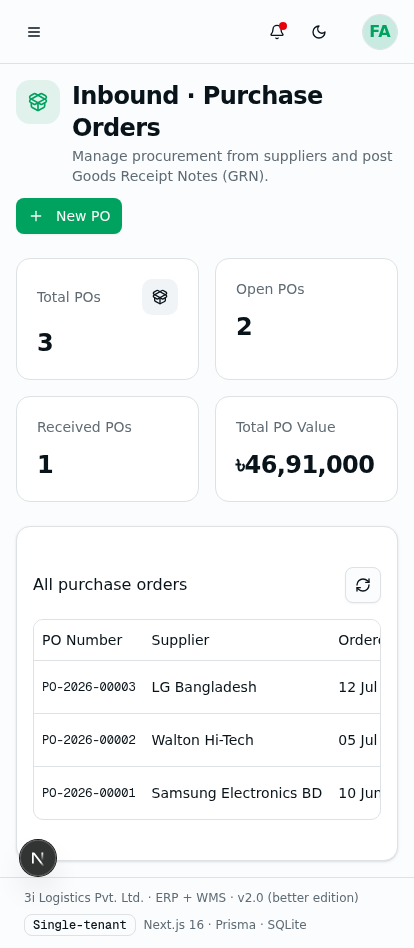
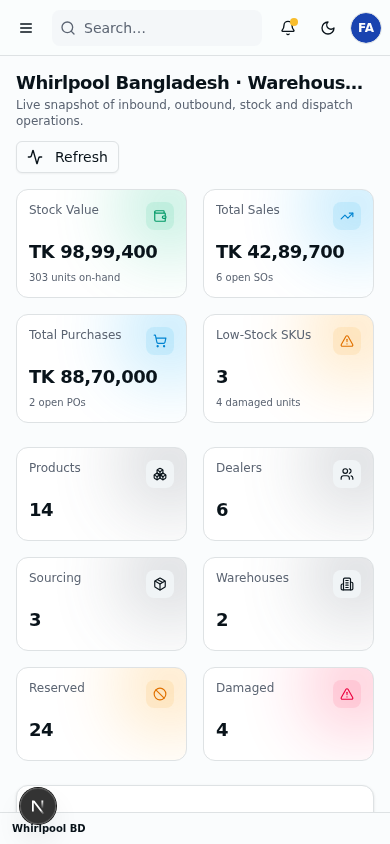
f7ca4c1f-90cb-48ee-82b6-1ebce1e157bb

diff --git a/public/sw.js b/public/sw.js
@@ -1,0 +1,63 @@
+// ═══════════════════════════════════════════════════════════════
+//  Service Worker — PWA offline support
+//  Caches the app shell for offline access.
+// ═══════════════════════════════════════════════════════════════
+
+const CACHE_NAME = 'whp-wms-v1'
+const APP_SHELL = [
+  '/',
+  '/manifest.json',
+  '/icon-192.png',
+  '/icon-512.png',
+]
+
+// Install — cache app shell
+self.addEventListener('install', (event) => {
+  event.waitUntil(
+    caches.open(CACHE_NAME).then((cache) => cache.addAll(APP_SHELL))
+  )
+  self.skipWaiting()
+})
+
+// Activate — clean up old caches
+self.addEventListener('activate', (event) => {
+  event.waitUntil(
+    caches.keys().then((keys) =>
+      Promise.all(keys.filter((k) => k !== CACHE_NAME).map((k) => caches.delete(k)))
+    )
+  )
+  self.clients.claim()
+})
+
+// Fetch — network-first for API, cache-first for static assets
+self.addEventListener('fetch', (event) => {
+  const { request } = event
+
+  // Skip non-GET requests
+  if (request.method !== 'GET') return
+
+  const url = new URL(request.url)
+
+  // API requests — always try network first (data must be fresh)
+  if (url.pathname.startsWith('/api/')) {
+    event.respondWith(
+      fetch(request).catch(() => caches.match(request))
+    )
+    return
+  }
+
+  // Static assets — cache first, then network
+  event.respondWith(
+    caches.match(request).then((cached) => {
+      if (cached) return cached
+      return fetch(request).then((response) => {
+        // Cache successful responses
+        if (response.ok && response.type === 'basic') {
+          const responseClone = response.clone()
+          caches.open(CACHE_NAME).then((cache) => cache.put(request, responseClone))
+        }
+        return response
+      })
+    })
+  )
+})

diff --git a/src/app/layout.tsx b/src/app/layout.tsx
@@ -1,4 +1,4 @@
-import type { Metadata } from "next";
+import type { Metadata, Viewport } from "next";
 import { Geist, Geist_Mono } from "next/font/google";
 import "./globals.css";
 import { Toaster } from "@/components/ui/sonner";
@@ -16,7 +16,42 @@ const geistMono = Geist_Mono({
 export const metadata: Metadata = {
   title: "Whirlpool Bangladesh · WMS",
   description: "Warehouse Management System for Whirlpool Bangladesh operations.",
+  manifest: "/manifest.json",
+  icons: {
+    icon: [
+      { url: '/favicon-32.png', sizes: '32x32', type: 'image/png' },
+      { url: '/icon.svg', type: 'image/svg+xml' },
+    ],
+    apple: '/apple-touch-icon.png',
+  },
+  appleWebApp: {
+    capable: true,
+    statusBarStyle: 'default',
+    title: 'WHP WMS',
+  },
+  applicationName: "WHP WMS",
+  formatDetection: {
+    telephone: false,
+  },
 };
+
+export const viewport: Viewport = {
+  themeColor: '#0c389f',
+  width: 'device-width',
+  initialScale: 1,
+  maximumScale: 5,
+  userScalable: true,
+  viewportFit: 'cover',
+};
+
+// Register service worker
+const SW_SCRIPT = `
+  if ('serviceWorker' in navigator) {
+    window.addEventListener('load', () => {
+      navigator.serviceWorker.register('/sw.js').catch(() => {});
+    });
+  }
+`;
 
 export default function RootLayout({
   children,
@@ -25,6 +60,9 @@ export default function RootLayout({
 }>) {
   return (
     <html lang="en" suppressHydrationWarning>
+      <head>
+        <script dangerouslySetInnerHTML={{ __html: SW_SCRIPT }} />
+      </head>
       <body
         className={`${geistSans.variable} ${geistMono.variable} antialiased bg-background text-foreground`}
       >

diff --git a/src/components/layout/Topbar.tsx b/src/components/layout/Topbar.tsx
@@ -61,33 +61,34 @@ export function Topbar({ onOpenMobileSidebar }: TopbarProps) {
   }
 
   return (
-    <header className="sticky top-0 z-30 flex h-16 items-center gap-3 border-b bg-background/80 glass px-4 md:px-6">
+    <header className="sticky top-0 z-30 flex h-14 md:h-16 items-center gap-2 md:gap-3 border-b bg-background/80 glass px-2 md:px-6 shrink-0">
       {/* Mobile menu */}
       <Button
-        variant="ghost" size="icon" className="md:hidden"
+        variant="ghost" size="icon" className="md:hidden shrink-0"
         onClick={onOpenMobileSidebar} aria-label="Open menu"
       >
         <Menu className="h-5 w-5" />
       </Button>
 
-      {/* Search trigger */}
+      {/* Search trigger — compact on mobile */}
       <button
         onClick={() => setCommandOpen(true)}
-        className="group flex items-center gap-3 h-10 w-full max-w-md rounded-lg bg-muted/60 px-3 text-sm text-muted-foreground hover:bg-muted transition-colors"
+        className="group flex items-center gap-2 md:gap-3 h-9 md:h-10 flex-1 md:flex-none md:w-full md:max-w-md rounded-lg bg-muted/60 px-2 md:px-3 text-sm text-muted-foreground hover:bg-muted transition-colors"
       >
-        <Search className="h-4 w-4" />
-        <span className="flex-1 text-left">
+        <Search className="h-4 w-4 shrink-0" />
+        <span className="flex-1 text-left truncate hidden sm:inline">
           Search SKUs, orders, dealers…
         </span>
-        <kbd className="hidden sm:inline-flex items-center gap-1 rounded border bg-background px-1.5 py-0.5 text-[10px] font-mono">
+        <span className="flex-1 text-left sm:hidden">Search…</span>
+        <kbd className="hidden md:inline-flex items-center gap-1 rounded border bg-background px-1.5 py-0.5 text-[10px] font-mono shrink-0">
           ⌘K
         </kbd>
       </button>
 
-      <div className="flex-1" />
+      <div className="flex-1 hidden md:block" />
 
       {/* Actions */}
-      <div className="flex items-center gap-1.5">
+      <div className="flex items-center gap-1 md:gap-1.5 shrink-0">
         <Button
           variant="ghost" size="sm" className="hidden lg:inline-flex gap-2 text-muted-foreground"
           onClick={reseed} disabled={reseeding}
@@ -99,24 +100,25 @@ export function Topbar({ onOpenMobileSidebar }: TopbarProps) {
 
         <Button
           variant="ghost" size="icon" aria-label="Notifications"
-          className="relative"
+          className="relative h-9 w-9"
           onClick={() => setNotificationsOpen(true)}
         >
-          <Bell className="h-5 w-5" />
+          <Bell className="h-4 md:h-5 w-4 md:w-5" />
           <span className="absolute right-2 top-2 h-2 w-2 rounded-full bg-accent" />
         </Button>
 
         <Button
           variant="ghost" size="icon" aria-label="Toggle theme"
+          className="h-9 w-9"
           onClick={() => setTheme(theme === 'dark' ? 'light' : 'dark')}
         >
-          {mounted && theme === 'dark' ? <Sun className="h-5 w-5" /> : <Moon className="h-5 w-5" />}
+          {mounted && theme === 'dark' ? <Sun className="h-4 md:h-5 w-4 md:w-5" /> : <Moon className="h-4 md:h-5 w-4 md:w-5" />}
         </Button>
 
-        <Separator orientation="vertical" className="mx-1 h-7" />
+        <Separator orientation="vertical" className="mx-1 h-7 hidden sm:block" />
 
-        <div className="flex items-center gap-2 pl-1">
-          <Avatar className="h-9 w-9 border">
+        <div className="flex items-center gap-2 pl-0 sm:pl-1">
+          <Avatar className="h-8 md:h-9 w-8 md:w-9 border shrink-0">
             <AvatarFallback className="bg-primary text-primary-foreground font-semibold text-xs">
               {user ? initials(user.name) : '?'}
             </AvatarFallback>

diff --git a/src/components/system/index.tsx b/src/components/system/index.tsx
@@ -19,22 +19,22 @@ interface PageHeaderProps {
 
 export function PageHeader({ title, description, icon: Icon, actions, breadcrumb }: PageHeaderProps) {
   return (
-    <div className="mb-6 animate-slide-up">
+    <div className="mb-4 md:mb-6 animate-slide-up">
       {breadcrumb && (
-        <nav className="mb-2 flex items-center gap-1.5 text-xs text-muted-foreground">
+        <nav className="mb-2 hidden md:flex items-center gap-1.5 text-xs text-muted-foreground overflow-hidden">
           {breadcrumb}
         </nav>
       )}
-      <div className="flex flex-col sm:flex-row sm:items-center sm:justify-between gap-4">
-        <div className="flex items-center gap-3.5 min-w-0">
+      <div className="flex flex-col sm:flex-row sm:items-center sm:justify-between gap-3 md:gap-4">
+        <div className="flex items-center gap-3 min-w-0">
           {Icon && (
-            <div className="relative grid place-items-center h-12 w-12 rounded-xl bg-gradient-to-br from-primary/15 to-primary/5 text-primary shrink-0 border border-primary/10">
-              <Icon className="h-5 w-5" />
+            <div className="relative grid place-items-center h-10 w-10 md:h-12 md:w-12 rounded-xl bg-gradient-to-br from-primary/15 to-primary/5 text-primary shrink-0 border border-primary/10">
+              <Icon className="h-4 md:h-5 w-4 md:w-5" />
             </div>
           )}
           <div className="min-w-0">
-            <h1 className="text-2xl font-semibold tracking-tight truncate leading-tight">{title}</h1>
-            {description && <p className="text-sm text-muted-foreground mt-1">{description}</p>}
+            <h1 className="text-lg md:text-2xl font-semibold tracking-tight truncate leading-tight">{title}</h1>
+            {description && <p className="text-xs md:text-sm text-muted-foreground mt-0.5 md:mt-1 line-clamp-2">{description}</p>}
           </div>
         </div>
         {actions && <div className="flex flex-wrap items-center gap-2 shrink-0">{actions}</div>}
@@ -70,7 +70,7 @@ interface StatCardProps {
 
 export function StatCard({ label, value, hint, icon: Icon, tone = 'default', trend }: StatCardProps) {
   return (
-    <div className="group relative overflow-hidden rounded-xl border bg-card p-5 transition-all hover:shadow-md hover:-translate-y-0.5">
+    <div className="group relative overflow-hidden rounded-xl border bg-card p-3 md:p-5 transition-all hover:shadow-md hover:-translate-y-0.5">
       {/* Subtle tone-colored glow in top-right */}
       <div className={cn(
         'absolute -top-6 -right-6 h-20 w-20 rounded-full blur-2xl opacity-40 transition-opacity group-hover:opacity-70',
@@ -81,17 +81,17 @@ export function StatCard({ label, value, hint, icon: Icon, tone = 'default', tre
         tone === 'primary' && 'bg-primary',
         tone === 'default' && 'bg-muted-foreground',
       )} />
-      <div className="relative flex items-start justify-between mb-3">
-        <p className="text-sm font-medium text-muted-foreground">{label}</p>
+      <div className="relative flex items-start justify-between mb-2 md:mb-3">
+        <p className="text-xs md:text-sm font-medium text-muted-foreground truncate">{label}</p>
         {Icon && (
-          <div className={cn('grid place-items-center h-9 w-9 rounded-lg transition-transform group-hover:scale-110', TONE_STYLES[tone])}>
-            <Icon className="h-4 w-4" />
+          <div className={cn('grid place-items-center h-7 w-7 md:h-9 md:w-9 rounded-lg transition-transform group-hover:scale-110 shrink-0', TONE_STYLES[tone])}>
+            <Icon className="h-3.5 md:h-4 w-3.5 md:w-4" />
           </div>
         )}
       </div>
-      <p className="relative text-2xl font-semibold tracking-tight tabular-nums">{value}</p>
-      <div className="relative flex items-center gap-2 mt-1.5">
-        {hint && <p className="text-xs text-muted-foreground">{hint}</p>}
+      <p className="relative text-lg md:text-2xl font-semibold tracking-tight tabular-nums">{value}</p>
+      <div className="relative flex items-center gap-2 mt-1 md:mt-1.5">
+        {hint && <p className="text-[10px] md:text-xs text-muted-foreground truncate">{hint}</p>}
         {trend && (
           <span className={cn(
             'text-xs font-medium tabular-nums',

diff --git a/src/components/layout/AppShell.tsx b/src/components/layout/AppShell.tsx
@@ -7,36 +7,32 @@ import { CommandPalette } from './CommandPalette'
 import { NotificationsPanel } from './NotificationsPanel'
 
 // ═══════════════════════════════════════════════════════════════
-//  AppShell — top-level layout: sidebar + topbar + content + footer
-//  Layout strategy:
-//  - Outer container: h-screen + overflow-hidden (no page-level scroll)
-//  - Sidebar: h-screen, own internal scroll if nav overflows
-//  - Main column: h-screen + flex-col, with main as flex-1 overflow-y-auto
-//  This means the sidebar stays put while only the content scrolls.
+//  AppShell — top-level layout (mobile + desktop)
+//
+//  Mobile (< md): sidebar = drawer overlay, topbar = compact
+//  Desktop (>= md): sidebar = fixed rail, main = scrollable content
 // ═══════════════════════════════════════════════════════════════
 
 export function AppShell({ children }: { children: ReactNode }) {
   const [mobileSidebarOpen, setMobileSidebarOpen] = useState(false)
 
   return (
-    <div className="flex h-screen w-full overflow-hidden bg-background">
+    <div className="flex h-[100dvh] w-full overflow-hidden bg-background">
       <Sidebar mobileOpen={mobileSidebarOpen} onMobileOpenChange={setMobileSidebarOpen} />
 
-      <div className="flex flex-1 flex-col min-w-0 h-screen">
+      <div className="flex flex-1 flex-col min-w-0 h-[100dvh]">
         <Topbar onOpenMobileSidebar={() => setMobileSidebarOpen(true)} />
 
-        <main className="flex-1 min-w-0 overflow-y-auto overflow-x-hidden">
+        <main className="flex-1 min-w-0 overflow-y-auto overflow-x-hidden overscroll-contain">
           {children}
         </main>
 
-        <footer className="border-t bg-background px-6 py-3 text-xs text-muted-foreground flex flex-wrap items-center justify-between gap-2 shrink-0">
-          <span className="flex items-center gap-2">
-            <span className="font-semibold text-foreground">Whirlpool Bangladesh</span>
-            <span>· Warehouse Management System · v2.0</span>
+        <footer className="border-t bg-background px-3 py-2 text-[10px] text-muted-foreground flex flex-wrap items-center justify-between gap-1 shrink-0">
+          <span className="flex items-center gap-1.5">
+            <span className="font-semibold text-foreground">Whirlpool BD</span>
+            <span className="hidden sm:inline">· WMS · v2.0</span>
           </span>
-          <span className="flex items-center gap-2">
-            <span className="font-mono">Phase 2 · Catalog complete</span>
-          </span>
+          <span className="font-mono hidden sm:inline">Phase 5 · Reports</span>
         </footer>
       </div>
 

diff --git a/src/components/system/forms.tsx b/src/components/system/forms.tsx
@@ -29,19 +29,19 @@ export function SearchToolbar({
   onRefresh, isRefreshing, filters, actions,
 }: SearchToolbarProps) {
   return (
-    <div className="flex flex-col sm:flex-row gap-3 sm:items-center justify-between mb-4">
-      <div className="relative flex-1 max-w-md">
+    <div className="flex flex-col sm:flex-row gap-2 sm:gap-3 sm:items-center justify-between mb-3 md:mb-4">
+      <div className="relative flex-1 sm:max-w-md">
         <Search className="pointer-events-none absolute left-3 top-1/2 -translate-y-1/2 h-4 w-4 text-muted-foreground" />
         <Input
           placeholder={searchPlaceholder}
-          className="pl-9"
+          className="pl-9 h-9"
           value={search}
           onChange={(e) => onSearchChange(e.target.value)}
         />
       </div>
-      <div className="flex items-center gap-2">
+      <div className="flex items-center gap-2 shrink-0">
         {filters}
-        <Button variant="outline" size="icon" onClick={onRefresh} title="Refresh" aria-label="Refresh">
+        <Button variant="outline" size="icon" className="h-9 w-9" onClick={onRefresh} title="Refresh" aria-label="Refresh">
           <RefreshCw className={cn('h-4 w-4', isRefreshing && 'animate-spin')} />
         </Button>
         {actions}

diff --git a/src/components/system/data-table.tsx b/src/components/system/data-table.tsx
@@ -83,8 +83,8 @@ export function DataTable<T>({
 
   return (
     <div className="rounded-lg border overflow-hidden bg-card">
-      <div style={{ maxHeight }} className="overflow-auto">
-        <Table>
+      <div style={{ maxHeight }} className="overflow-auto overscroll-contain -webkit-overflow-scrolling-touch">
+        <Table className="min-w-[640px] md:min-w-0">
           <TableHeader className="sticky top-0 bg-muted/40 backdrop-blur z-10 border-b">
             <TableRow className="hover:bg-transparent">
               {columns.map((col) => {

diff --git a/src/features/dashboard/DashboardPage.tsx b/src/features/dashboard/DashboardPage.tsx
@@ -91,7 +91,7 @@ export function DashboardPage() {
             <CardDescription>Inbound vs outbound flow across all warehouses</CardDescription>
           </CardHeader>
           <CardContent>
-            <ResponsiveContainer width="100%" height={280}>
+            <ResponsiveContainer width="100%" height={250} className="w-full">
               <AreaChart data={charts.trend} margin={{ left: -16, right: 8, top: 8 }}>
                 <defs>
                   <linearGradient id="gIn" x1="0" y1="0" x2="0" y2="1">
@@ -121,7 +121,7 @@ export function DashboardPage() {
             <CardDescription>Cost-basis distribution</CardDescription>
           </CardHeader>
           <CardContent>
-            <ResponsiveContainer width="100%" height={280}>
+            <ResponsiveContainer width="100%" height={250} className="w-full">
               <PieChart>
                 <Pie data={charts.byCategory} dataKey="value" nameKey="name" cx="50%" cy="50%" innerRadius={55} outerRadius={90} paddingAngle={2}>
                   {charts.byCategory.map((_: any, i: number) => (

diff --git a/src/components/ui/dialog.tsx b/src/components/ui/dialog.tsx
@@ -60,7 +60,7 @@ function DialogContent({
       <DialogPrimitive.Content
         data-slot="dialog-content"
         className={cn(
-          "bg-background data-[state=open]:animate-in data-[state=closed]:animate-out data-[state=closed]:fade-out-0 data-[state=open]:fade-in-0 data-[state=closed]:zoom-out-95 data-[state=open]:zoom-in-95 fixed top-[50%] left-[50%] z-50 grid w-full max-w-[calc(100%-2rem)] translate-x-[-50%] translate-y-[-50%] gap-4 rounded-lg border p-6 shadow-lg duration-200 sm:max-w-lg",
+          "bg-background data-[state=open]:animate-in data-[state=closed]:animate-out data-[state=closed]:fade-out-0 data-[state=open]:fade-in-0 data-[state=closed]:zoom-out-95 data-[state=open]:zoom-in-95 fixed top-[50%] left-[50%] z-50 grid w-full max-w-[calc(100%-1rem)] sm:max-w-[calc(100%-2rem)] translate-x-[-50%] translate-y-[-50%] gap-4 rounded-lg border p-4 sm:p-6 shadow-lg duration-200 max-h-[calc(100dvh-1rem)] overflow-y-auto overscroll-contain sm:max-w-lg",
           className
         )}
         {...props}

diff --git a/src/components/ui/tabs.tsx b/src/components/ui/tabs.tsx
@@ -26,7 +26,7 @@ function TabsList({
     <TabsPrimitive.List
       data-slot="tabs-list"
       className={cn(
-        "bg-muted text-muted-foreground inline-flex h-9 w-fit items-center justify-center rounded-lg p-[3px]",
+        "bg-muted text-muted-foreground inline-flex h-9 w-fit items-center justify-center rounded-lg p-[3px] overflow-x-auto max-w-full",
         className
       )}
       {...props}

diff --git a/src/features/reports/ReportsPage.tsx b/src/features/reports/ReportsPage.tsx
@@ -136,7 +136,7 @@ function ValuationReport() {
       ) : (
         <>
           <div className="rounded-xl border bg-card p-6">
-            <ResponsiveContainer width="100%" height={320}>
+            <ResponsiveContainer width="100%" height={250} className="w-full">
               <BarChart data={rows} margin={{ left: -10, right: 10 }}>
                 <CartesianGrid strokeDasharray="3 3" stroke="var(--border)" vertical={false} />
                 <XAxis dataKey="category" tick={{ fontSize: 11 }} stroke="var(--muted-foreground)" tickLine={false} axisLine={false} />